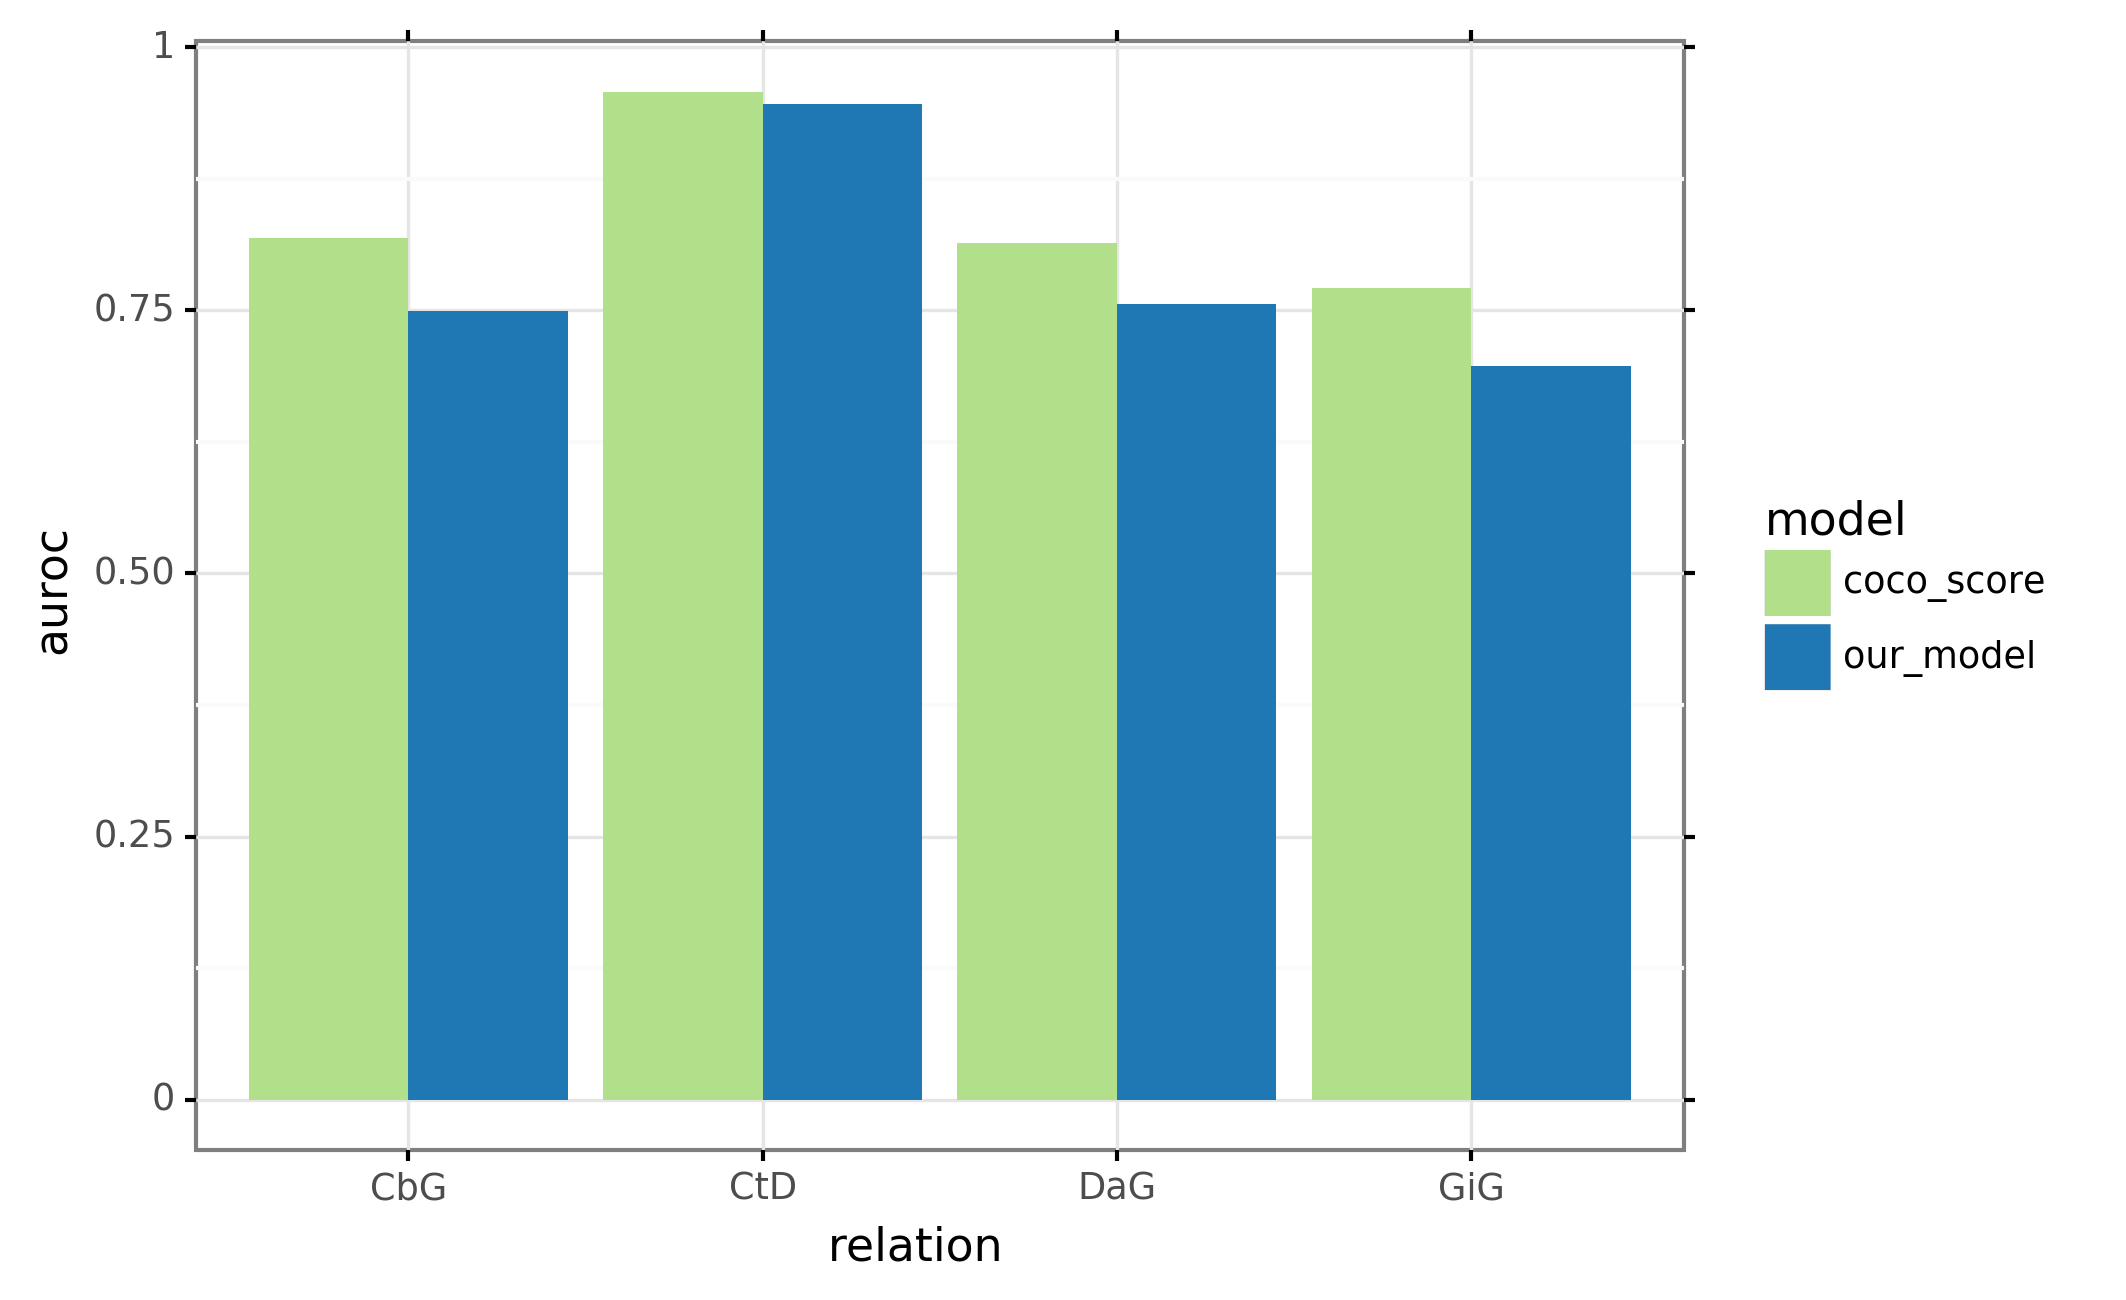
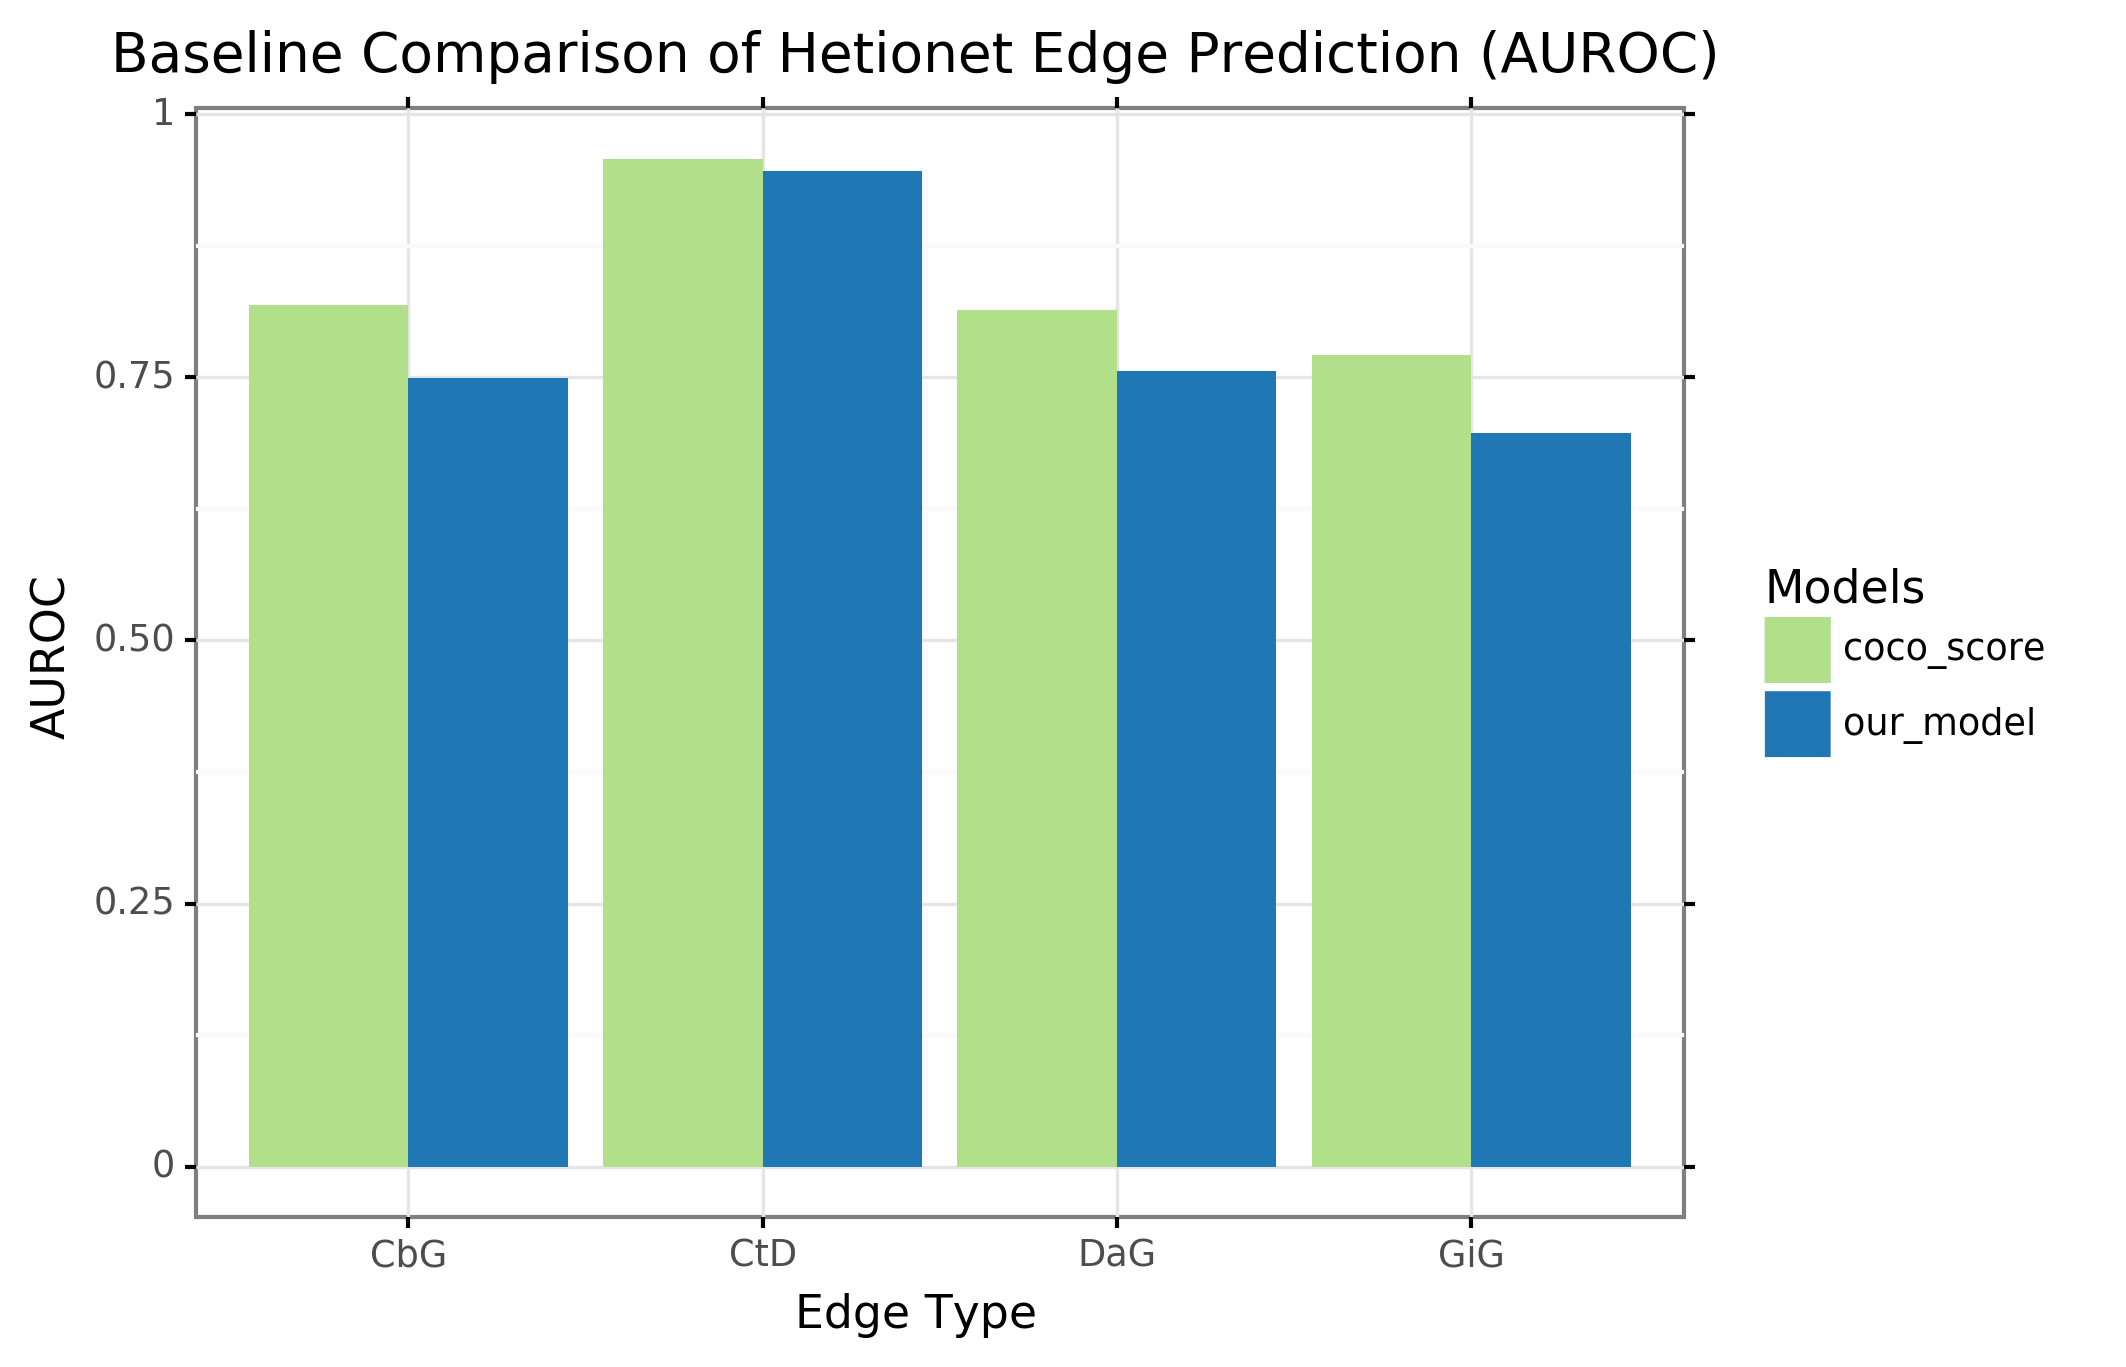
Updated figures for literature comparison

diff --git a/figures/literature_models/plot_scripts/literature_model_figure_generator.py b/figures/literature_models/plot_scripts/literature_model_figure_generator.py
@@ -124,9 +124,36 @@ g = (
         "our_model":color_map["our_model"],
         "coco_score":color_map["coco_score"]
     }) +
-    p9.guides(color=p9.guide_legend(title="Models")) + 
+    p9.guides(fill=p9.guide_legend(title="Models")) + 
+    p9.labs(
+        y = "AUROC",
+        x = "Edge Type",
+        title="Baseline Comparison of Hetionet Edge Prediction (AUROC)"
+    ) +
     p9.theme_bw()
 )
 print(g)
 g.save(filename="../coco_score_auroc.png", dpi=300)
+
+
+# In[8]:
+
+
+g = (
+    p9.ggplot(results_df, p9.aes(x="relation", y="aupr", fill="model")) +
+    p9.geom_col(position="dodge")  + 
+    p9.scale_fill_manual(values={
+        "our_model":color_map["our_model"],
+        "coco_score":color_map["coco_score"]
+    }) +
+    p9.guides(fill=p9.guide_legend(title="Models")) + 
+    p9.labs(
+        y = "AUPR",
+        x = "Edge Type",
+        title="Baseline Comparison of Hetionet Edge Prediction (AUPR)"
+    ) +
+    p9.theme_bw()
+)
+print(g)
+g.save(filename="../coco_score_aupr.png", dpi=300)
 
